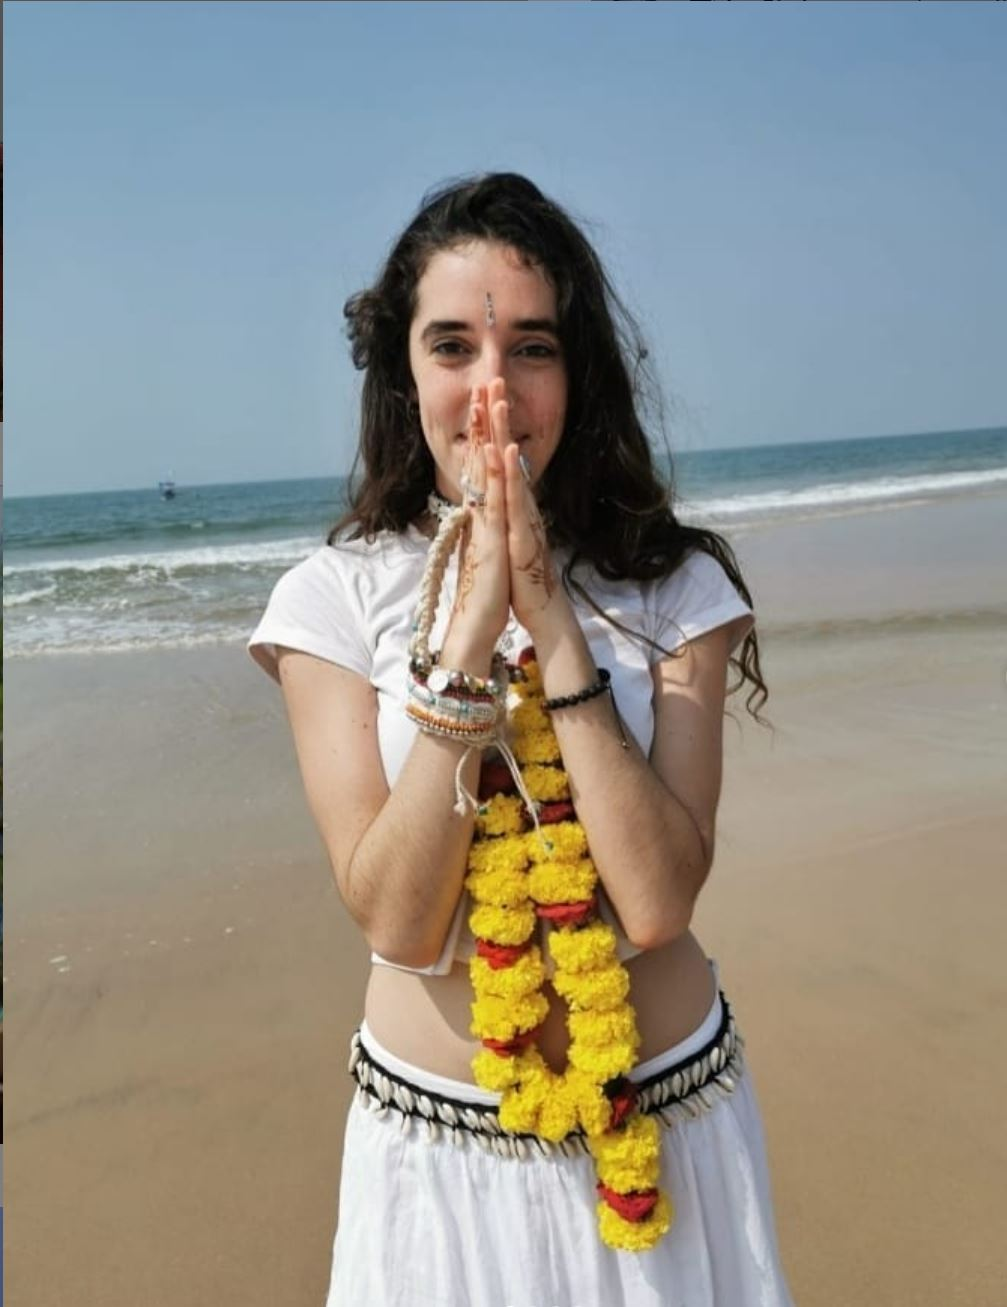
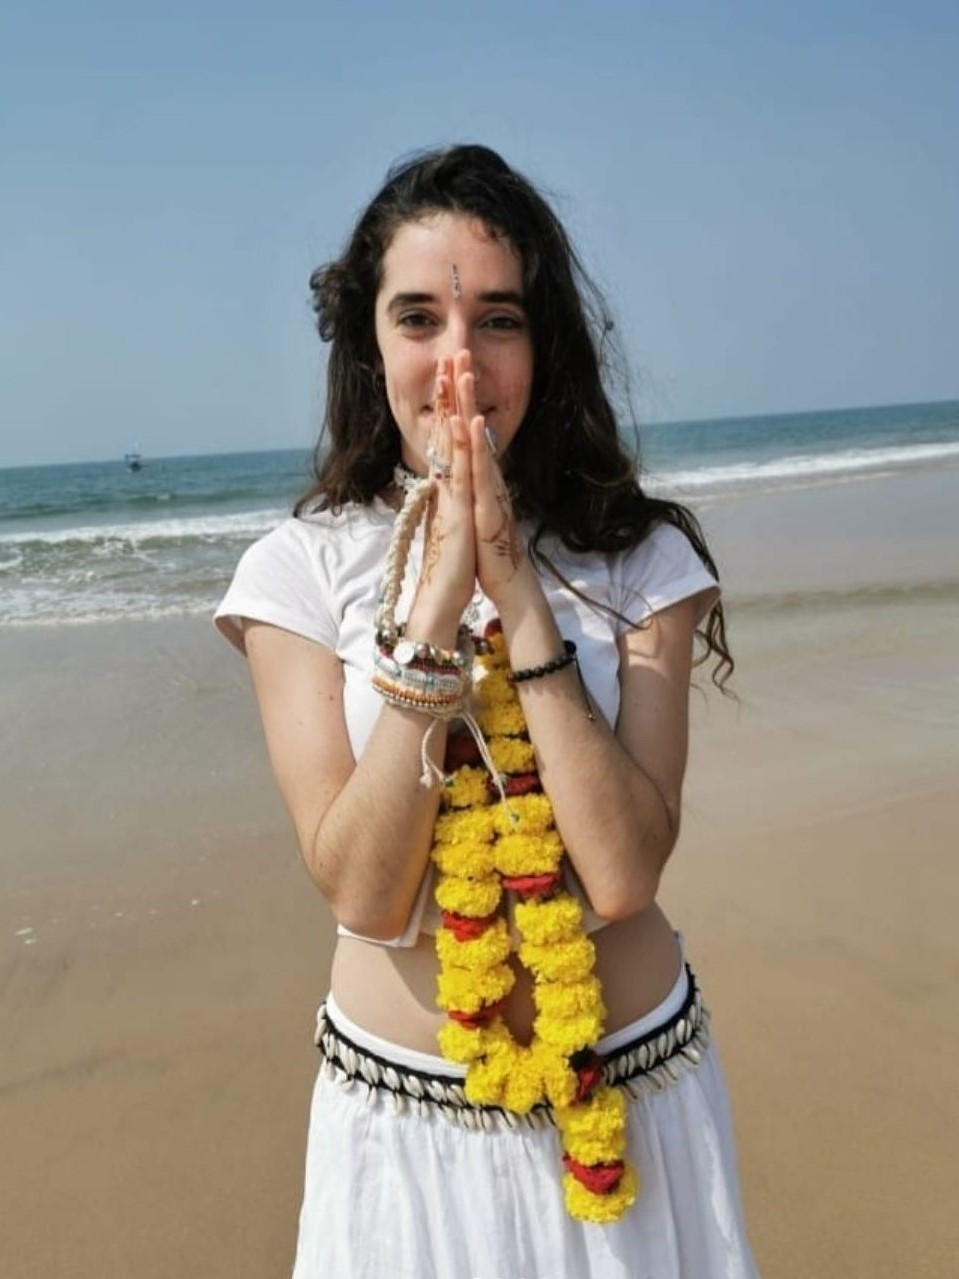
Update 4

Changed region(s): [[0.0, 0.0, 1.0, 1.0], [0.0, 0.9148, 0.0302, 1.0], [0.6955, 0.6403, 0.7258, 0.6708]]

diff --git a/About Me.html b/About Me.html
@@ -17,8 +17,8 @@
     <title>Flo.with.bro</title>
   </head>
 
-  <link rel="icon" href="./img/favicon32.png" sizes="16x16" type="png">
-  
+  <link rel="icon" href="./img/favicon32.png" sizes="16x16" type="png" />
+
   <body>
     <header>
       <nav class="navContainer">
@@ -48,7 +48,6 @@
             <li>
               <a href="./Contact.html">Contact Me</a>
             </li>
-            
           </ul>
         </div>
         <div class="navItem">
@@ -83,29 +82,68 @@
       ABOUT ME
     </h1>
 
-    <p>
-    I am a 500 hour trained yoga teacher under the International Yoga Alliance. 
-    I completed my first 200 hours in Hatha Yoga in Rishikesh, India. 
-    I then continued my studies a year later in Goa completing my 300 hours in Yin and Yang Multi style Yoga, 
-    with a focus on Ayurveda and the 5 elements.  
-    <p>
-      I have praticed yoga for 7 years and could not imagine my life without it. 
-      Yoga has healed me in ways I didn't think possible, and so I became a teacher to share this gift with others.
-    </p>
-</p> 
-<p>
-I set up my own classes 'Flow with Bro' as I wanted to work for myself, aswell as providing the community with affordable and healing sessions. 
-I have taught group classes in India and the United Kingdom, aswell as private classes at home.
-I have also taught at DASH in the refuge.
-    </p>
-    <p>
-      I teach Hatha and Vinyasa flow, aswell as more Yinish classes including Yoga Nidra. 
-      I love to incorporate movement, art and themes into my classes.  
-    The themes can include the 5 elements, moon cycles, Taosim and even breaking patterns in our minds.
-    </p>
+    <div class="aboutMeWrapper">
+      <div>
+        <img
+          class="aboutMePics"
+          src="./img/HomePicTall.jpg"
+          alt="Bronagh OShea Yoga"
+        />
+      </div>
+      <div class="aboutMeText">
+        <p>
+          I am a 500 hour trained yoga teacher under the International Yoga
+          Alliance. I completed my first 200 hours in Hatha Yoga in Rishikesh,
+          India. I then continued my studies a year later in Goa completing my
+          300 hours in Yin and Yang Multi style Yoga, with a focus on Ayurveda
+          and the 5 elements.
+        </p>
+        <p>
+          I have praticed yoga for 7 years and could not imagine my life without
+          it. Yoga has healed me in ways I didn't think possible, and so I
+          became a teacher to share this gift with others.
+        </p>
+        <br />
 
-    <div class="picsWrapper">
-      <img class="pics" src="./img/HomePic.jpg" alt="Bronagh OShea Yoga" />
+        <div class="aboutMeTextSecondary">
+          <div class="iconWrapper">
+            <span><h3>MISSION</h3></span>
+          </div>
+          <p>
+            To provide the community with affordable and healing sessions.
+          </p>
+          <br />
+          <div class="iconWrapper">
+            <span><h3>YOGA STYLE</h3></span>
+          </div>
+          <p>
+            I teach Hatha and Vinyasa flow, as well as more Yinish classes
+            including Yoga Nidra. I love to incorporate movement, art and themes
+            into my classes. The themes can include the 5 elements, moon cycles,
+            Taosim and even breaking patterns in our minds.
+          </p>
+          <p>
+            I have taught group classes in India and the United Kingdom, aswell
+            as private classes at home. I have also taught at DASH in the
+            refuge.
+          </p>
+          <div>
+            <img
+              src="./img/yinyang.png"
+              alt="Bronagh OShea Yoga"
+              height="40px"
+            />
+          </div>
+        </div>
+      </div>
+      <br />
+      <div>
+        <img
+          class="aboutMePics"
+          src="./img/pic11portTall.jpg"
+          alt="Bronagh OShea Yoga"
+        />
+      </div>
     </div>
   </body>
 </html>

diff --git a/css/main.css b/css/main.css
@@ -31,8 +31,22 @@ h3 {
   font-weight: 400;
   font-size: 30px;
   text-align: center;
-  padding-left: 20px;
   margin: 0;
+}
+
+.aboutMeTextSecondary {
+  display: flex;
+  justify-content: center;
+  align-items: center;
+  flex-direction: column;
+}
+
+.aboutMeTextSecondary .iconWrapper h3 {
+  margin: 0;
+}
+
+.iconWrapper h3 {
+  margin-left: 15px;
 }
 
 p {
@@ -40,8 +54,7 @@ p {
   text-align: center;
   font-family: "PT Sans Narrow", sans-serif;
   color: black;
-  margin-left: 15vw;
-  margin-right: 15vw;
+  margin: 10px 15vh 0 15vh;
 }
 
 .hero {
@@ -58,13 +71,14 @@ br {
 
 .hero h1 {
   font-weight: 700;
-  font-size: 20vh;
+  font-size: 10vh;
   color: white;
 }
+
 .hero p {
   color: white;
   font-weight: 200;
-  font-size: 6vh;
+  font-size: 4vh;
   opacity: 0.85;
 }
 
@@ -73,7 +87,7 @@ br {
   margin-right: 40px;
   border-bottom: solid;
   border-color: #ffc9c9;
-  border-width: 2px;
+  border-width: 3px;
 }
 
 .navContainer {
@@ -145,16 +159,55 @@ a:hover {
   background-size: cover;
 }
 
+.iconWrapper {
+  display: flex;
+  width: 20vw;
+  border-bottom: solid;
+  border-color: #ffc9c9;
+  border-width: 1px;
+  justify-content: center;
+  align-items: center;
+}
+
 .picsWrapper {
   display: flex;
   justify-content: center;
   width: 100%;
 }
 
-.pics {
-  height: 300px;
+.aboutMeWrapper {
+  display: flex;
+  justify-content: center;
+}
+
+.aboutMeText p {
+  margin: 10px 0 0 0;
+}
+
+.classes {
+  margin: 0 15vh 0px 15vh;
+  display: flex;
+  justify-content: center;
+  align-items: center;
+  flex-direction: column;
+}
+
+.aboutMeTextSecondary p,
+.classes p {
+  font-size: 15px;
+  margin-bottom: 20px;
+}
+
+.picsRow {
+  height: 350px;
   width: auto;
   margin: 2vh;
+}
+
+.aboutMePics {
+  width: 20vw;
+  height: 95%;
+  margin: 0 40px 0 40px;
 }
 
 a.fa {
@@ -172,15 +225,12 @@ a.fa:hover {
   color: white;
 }
 
-i.fa {
+span.fa {
   background: none;
-  font-size: 20px;
-  flex: 1;
-  display: flex;
-  justify-content: center;
-  align-items: center;
+  font-size: 15px;
+  color: #5fbabc;
 }
 
-i.fa:hover {
-  color: black;
+span.fa:hover {
+  color: #5fbabc;
 }

diff --git a/Classes.html b/Classes.html
@@ -88,36 +88,50 @@
   The 5 block sessions will help you to reestablish your connection with the elements and to 
   balance the qualities that we feel disconnected with.
 </p>
-<!-- <p>
-  If a class is more appealing than another, you are more than welcome 
-  to pick the elements that call to you more.
-  </p> -->
-<i class="fa fa-globe"> <h3>EARTH:</h3></i>
+<br>
+  <div class="classes">
+<div class="iconWrapper"> 
+  <span class="fa fa-globe"></span> 
+  <span><h3>EARTH:</h3></span> 
+</div>
 <p>
 To reestablish our connection with mother earth and our most primal selves. 
 The session will be focused on grounding asanas and will be a strong and steady Hatha flow. 
 </p>
-<i class="fa fa-tint"> <h3>WATER:</h3></i>
+<div class="iconWrapper"> 
+  <span class="fa fa-tint"></span> 
+  <span><h3>WATER:</h3></span> 
+</div>
 <p>
 To release emotions that are no longer serving us  so we can become free and adaptable. 
 The session  focuses on the Swadistana Chakara associated with sensuality, creativity and femininity. 
 We will be releasing emotions through a fluid vinyasa flow with hip openers. 
 </p>
-<i class="fa fa-fire" style=> <h3>FIRE:</h3></i>
+<div class="iconWrapper"> 
+  <span class="fa fa-fire"></span> 
+  <span><h3>FIRE:</h3></span> 
+</div>
  <p>
 To nurture the manipura Chakara. This session aims to ignite the fire within us; 
 by strengthening our core and thus our will power. A class to help overcome motivation deficiency. 
 </p>
-<i class="fa fa-cloud" style=> <h3>AIR:</h3></i>
+<div class="iconWrapper"> 
+  <span class="fa fa-cloud"></span> 
+  <span><h3>AIR:</h3></span> 
+</div>
 <p>
 To open our Anahata Chakara. A session focused on balance and maybe even some 
 inversions to encourage the upward flow of energy. The session will be a soft vinyasa flow. 
 </p>
-<i class="fa fa-moon-o" style=> <h3>SPACE:</h3></i>
+<div class="iconWrapper"> 
+  <span class="fa fa-moon-o"></span> 
+  <span><h3>SPACE:</h3></span> 
+</div>
 <p>
 To journey into the cosmo and the space within our body. 
 A session in meditation to connect to the cosmos. 
 </p>
+</div>
 <br>
 
 

diff --git a/Art.html b/Art.html
@@ -87,7 +87,7 @@
 
     <p>
       After completing my Philosophy degree, I worked  for the DASH charity (affliated with Womans Aid) 
-      for over a year as an outreach Worker. It was during this experience I realised just how much yoga 
+      for over a year as an Outreach Worker. It was during this experience I realised just how much yoga 
       can help those in difficult situations. 
     </p>
     <p>I set up classes at the DASH charity where I would teach 
@@ -95,20 +95,21 @@
       I would lead shakti circles aswell as meditation sessions for the survivors, and could see just how 
       much yoga helped in their recovery.
     </p>
-    
     <br>
-    <h3>
-    INTERESTS:
-    </h3>
+    <div class="classes">
+    <div class="iconWrapper"> 
+       <span><h3>INTERESTS:</h3></span> 
+    </div>
     <p>
-    philosophy, spirituality, tarot & astrology, art,  music, 
-    natural medicine, travel, writing, dancing and being outdoors.
+    Philosophy  |  Spirituality  |  Tarot & Astrology  |  Art  |  Music  |  
+    Natural Medicine  |  Travel  |  Writing  |  Dancing  |  Being Outdoors
     </p>
+  </div>
 
     <div class="picsWrapper">
-      <img class="pics" src="./img/Pic2.jpg" alt="Bronagh OShea Yoga" />
-      <img class="pics" src="./img/Pic1.jpg" alt="Bronagh OShea Yoga" />
-      <img class="pics" src="./img/Pic3.jpg" alt="Bronagh OShea Yoga" />
+      <img class="picsRow" src="./img/Pic2.jpg" alt="Bronagh OShea Yoga" />
+      <img class="picsRow" src="./img/Pic1.jpg" alt="Bronagh OShea Yoga" />
+      <img class="picsRow" src="./img/Pic3.jpg" alt="Bronagh OShea Yoga" />
     </div>
   </body>
 </html>
